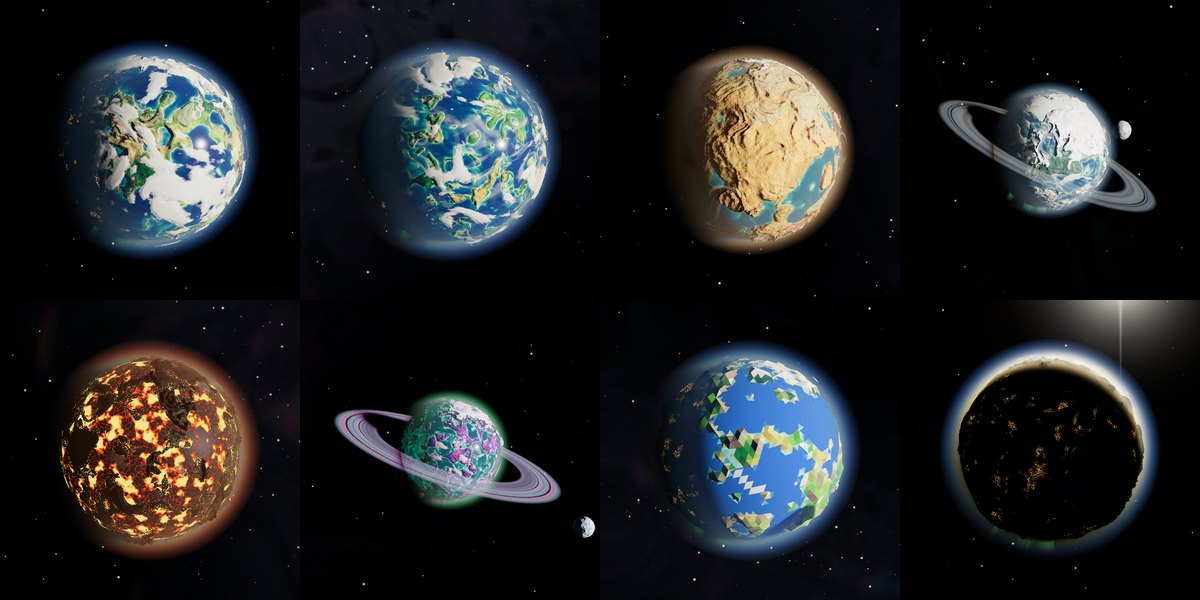
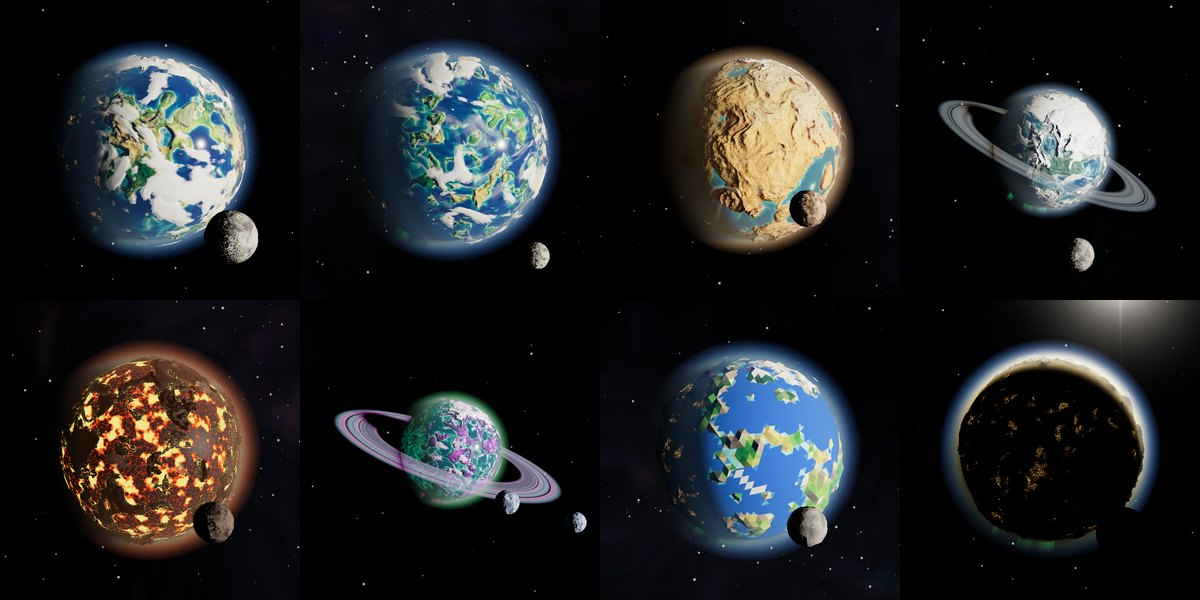
Fix moon aliasing and self-shadowing, refresh README images
- Moons: higher mesh resolution, no bump mapping and low-frequency detail
  noise (removes checker/speckle artifacts), smaller default size
- Moons no longer shadow themselves via their own bounding sphere
- New README screenshot and preset gallery

Claude-Session: https://claude.ai/code/session_01NDakQc6ViTb6ANMtTu1WPR

diff --git a/src/planet/generator.ts b/src/planet/generator.ts
@@ -354,7 +354,7 @@ export function generateMoons(seed: number, count: number, lowPoly: boolean): Mo
 
 function generateMoon(seed: number, index: number, lowPoly: boolean): MoonResult {
   const rng = new Rng(mixSeed(seed, 0x300 + index * 7919));
-  const freq = lowPoly ? 6 : 22;
+  const freq = lowPoly ? 6 : 40;
   const topo = buildIcosphere(freq);
   const V = topo.vertexCount;
   const dirs = topo.directions;
@@ -386,7 +386,7 @@ function generateMoon(seed: number, index: number, lowPoly: boolean): MoonResult
     data[v * 4 + 2] = smoothstep(-0.1, 0.35, nMare.fbm(x * 1.2, y * 1.2, z * 1.2, 3)); // dark "maria"
     data[v * 4 + 3] = rock[v];
   }
-  const ao = cavityOcclusion(heights, buildNeighbors(V, topo.indices), freq * 2.5);
+  const ao = cavityOcclusion(heights, buildNeighbors(V, topo.indices), freq * 1.5);
   const mesh = lowPoly
     ? toFlatMesh(positions, data, ao, topo.indices)
     : { positions, normals: computeNormals(positions, topo.indices, V), data, ao, indices: topo.indices.slice() };

diff --git a/src/render/materials/terrain.ts b/src/render/materials/terrain.ts
@@ -57,7 +57,12 @@ void main() {
   float n2 = 0.0;
 #else
   vec3 N = normalize(vWorldNormal);
+#ifdef MOON
+  // Moons are small on screen: much lower detail frequency to avoid aliasing.
+  vec3 np = vLocalPos * 5.0;
+#else
   vec3 np = vLocalPos * 21.0;
+#endif
   float n1 = snoise(np);
   float n2 = snoise(np * 2.9 + 13.0);
   // Extra micro detail when the camera is close.
@@ -76,7 +81,7 @@ void main() {
 
 #ifdef MOON
   float mare = vData.z;
-  albedo = uMoonColor * 0.62 * mix(1.0, 0.45, mare) * (0.85 + 0.3 * (n2 * 0.5 + 0.5));
+  albedo = uMoonColor * 0.62 * mix(1.0, 0.45, mare) * (0.85 + 0.3 * (n1 * 0.5 + 0.5));
   albedo *= 1.0 + vData.w * 0.4;
 #else
   float h = vData.x;

diff --git a/src/render/PlanetView.ts b/src/render/PlanetView.ts
@@ -334,7 +334,8 @@ export class PlanetView {
     tu.uLavaColor.value.set(p.cShallow);
 
     this.moonMat.uniforms.uMoonColor.value.set(p.cMoon);
-    this.moonMat.uniforms.uDetailBump.value = 0.0012 * p.moonSize / 0.2;
+    // Moons are small on screen; derivative-based bump mapping only adds aliasing there.
+    this.moonMat.uniforms.uDetailBump.value = 0;
 
     // Ocean
     this.ocean.visible = hasOcean;

diff --git a/src/render/shaders/common.ts b/src/render/shaders/common.ts
@@ -96,6 +96,8 @@ float moonShadow(vec3 p) {
   float s = 1.0;
   for (int i = 0; i < 4; i++) {
     if (i >= uMoonCount) break;
+    // Points on the moon itself must not be shadowed by its own bounding sphere.
+    if (distance(p, uMoons[i].xyz) < uMoons[i].w * 1.35) continue;
     s *= mix(0.08, 1.0, sphereShadow(p, uMoons[i].xyz, uMoons[i].w, 0.004));
   }
   return s;

diff --git a/src/planet/params.ts b/src/planet/params.ts
@@ -184,7 +184,7 @@ export const DEFAULT_PARAMS: PlanetParams = {
   cRing2: '#8c7a66',
 
   moons: 1,
-  moonSize: 0.2,
+  moonSize: 0.16,
   cMoon: '#b9b3aa',
 
   axialTilt: 18,
